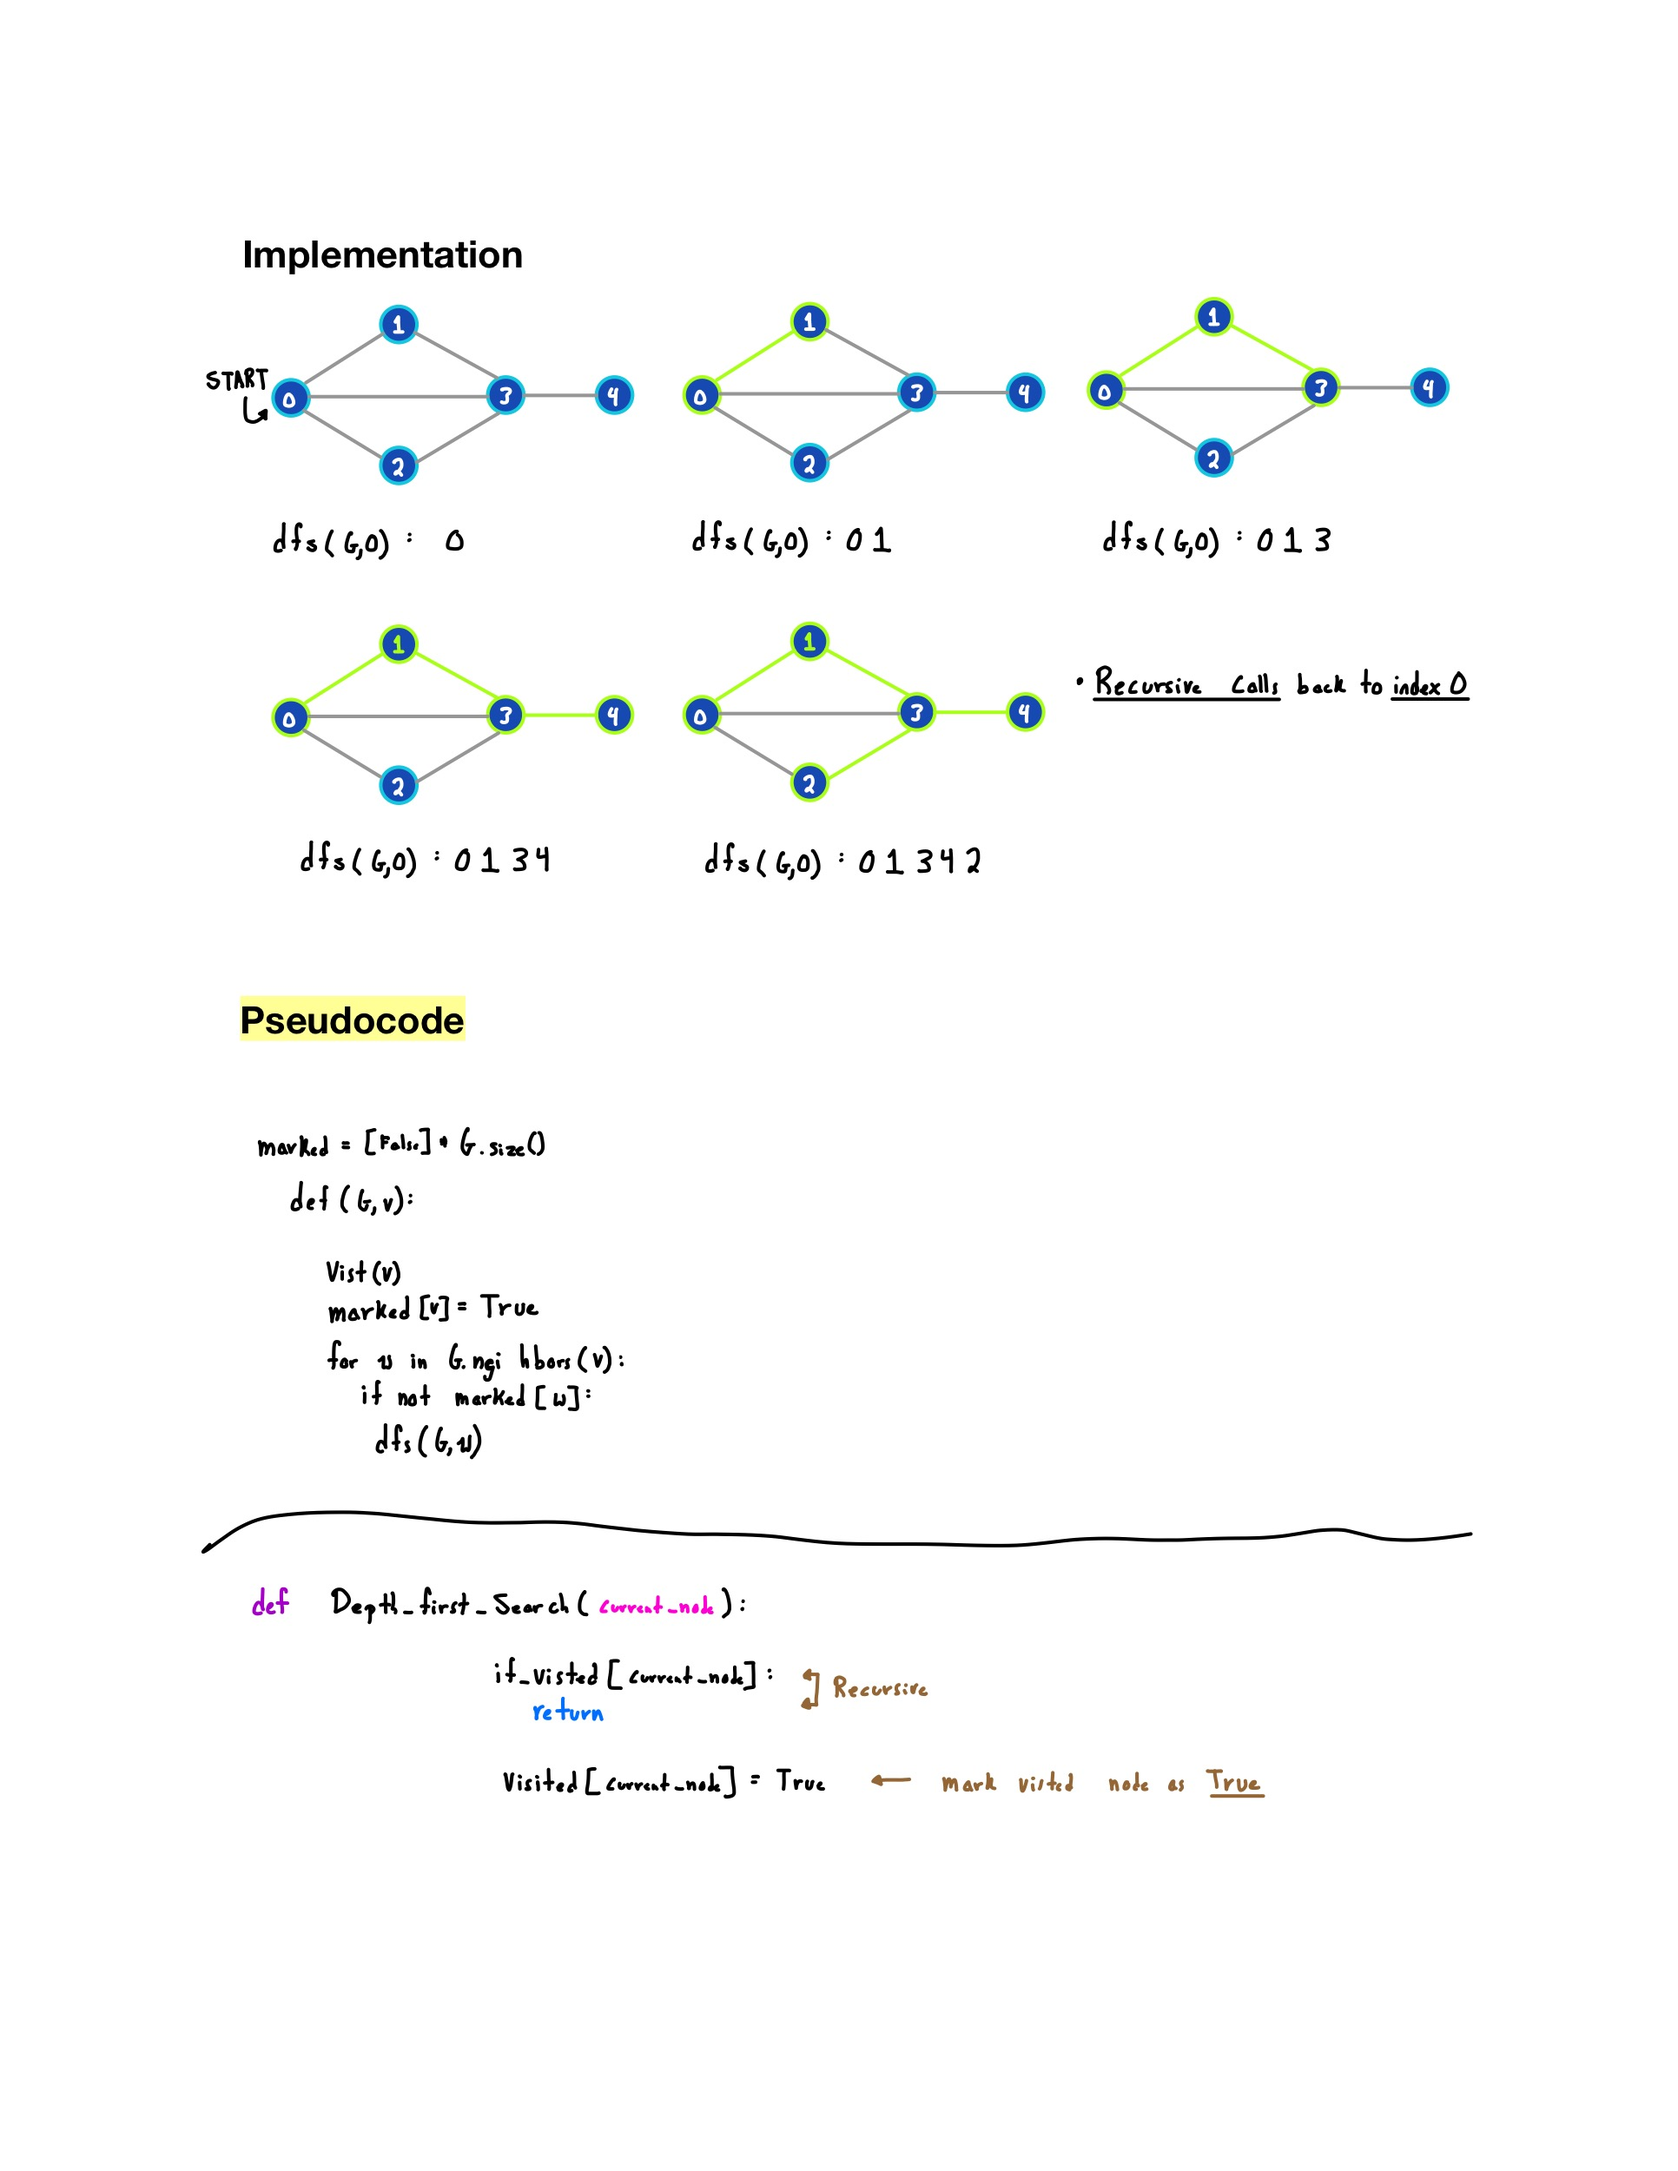
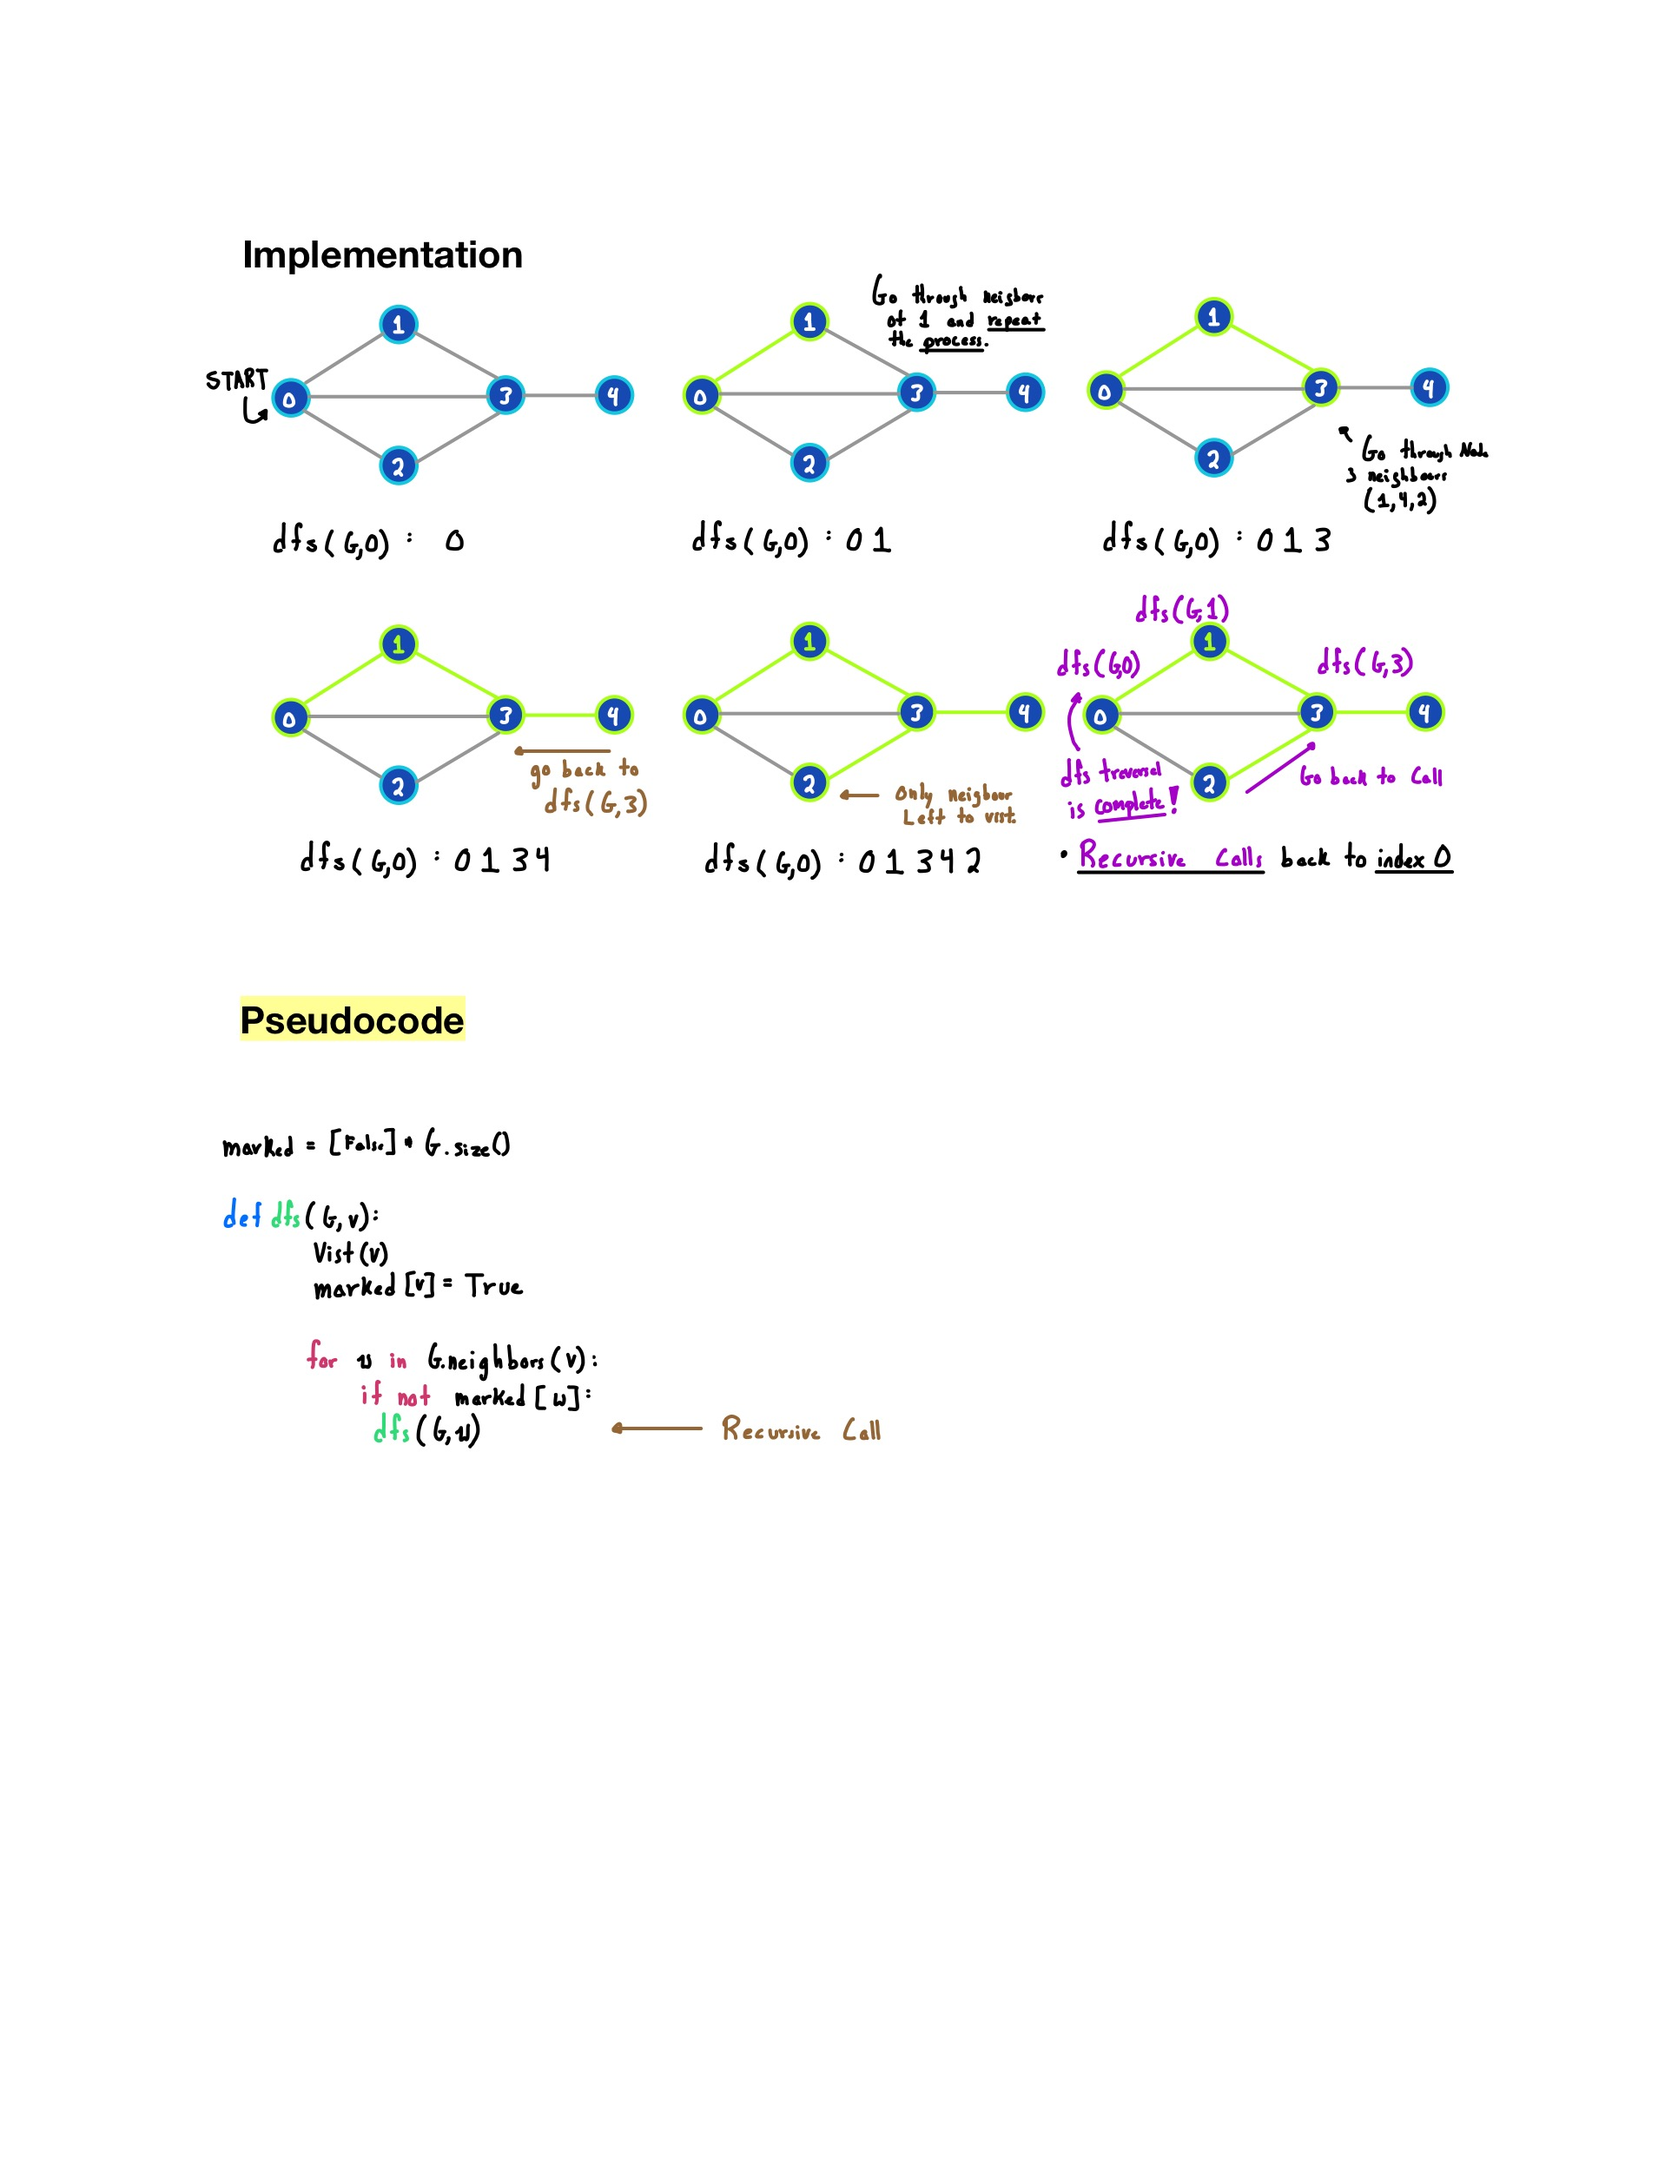
dfs

diff --git a/_pages/graphs_dfs.md b/_pages/graphs_dfs.md
@@ -14,6 +14,8 @@ header:
 ![inserting an Image](/images/Graphs/dfs/dfs3.jpg)
 ![inserting an Image](/images/Graphs/dfs/dfs4.jpg)
 ![inserting an Image](/images/Graphs/dfs/dfs5.jpg)
+![inserting an Image](/images/Graphs/dfs/dfs6.jpg)
+
 
 Example Code, heres Code of a Graph that we will use in our DFS Algorithm
 
